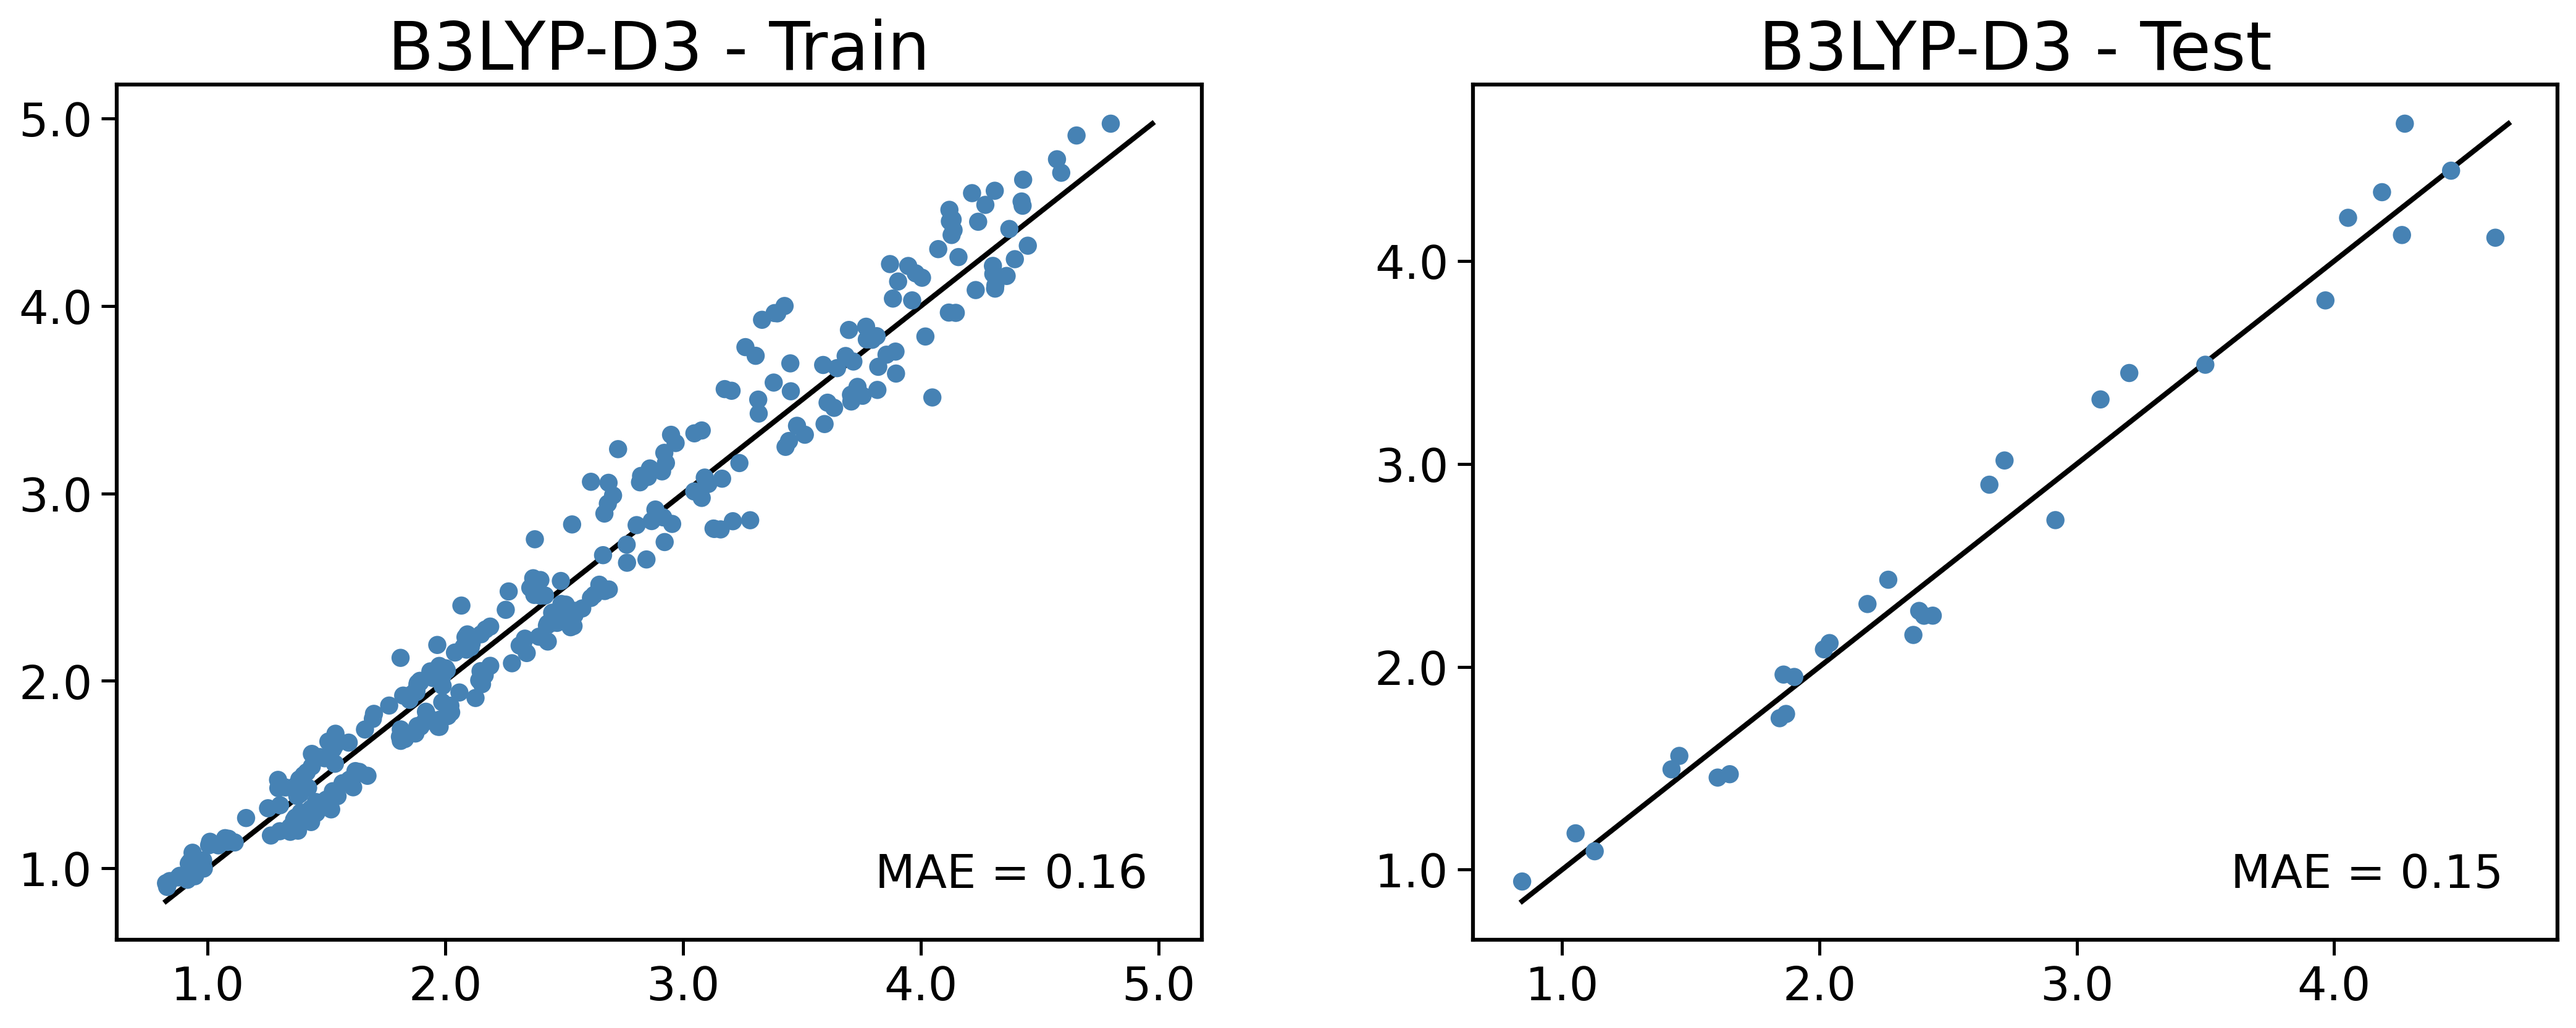
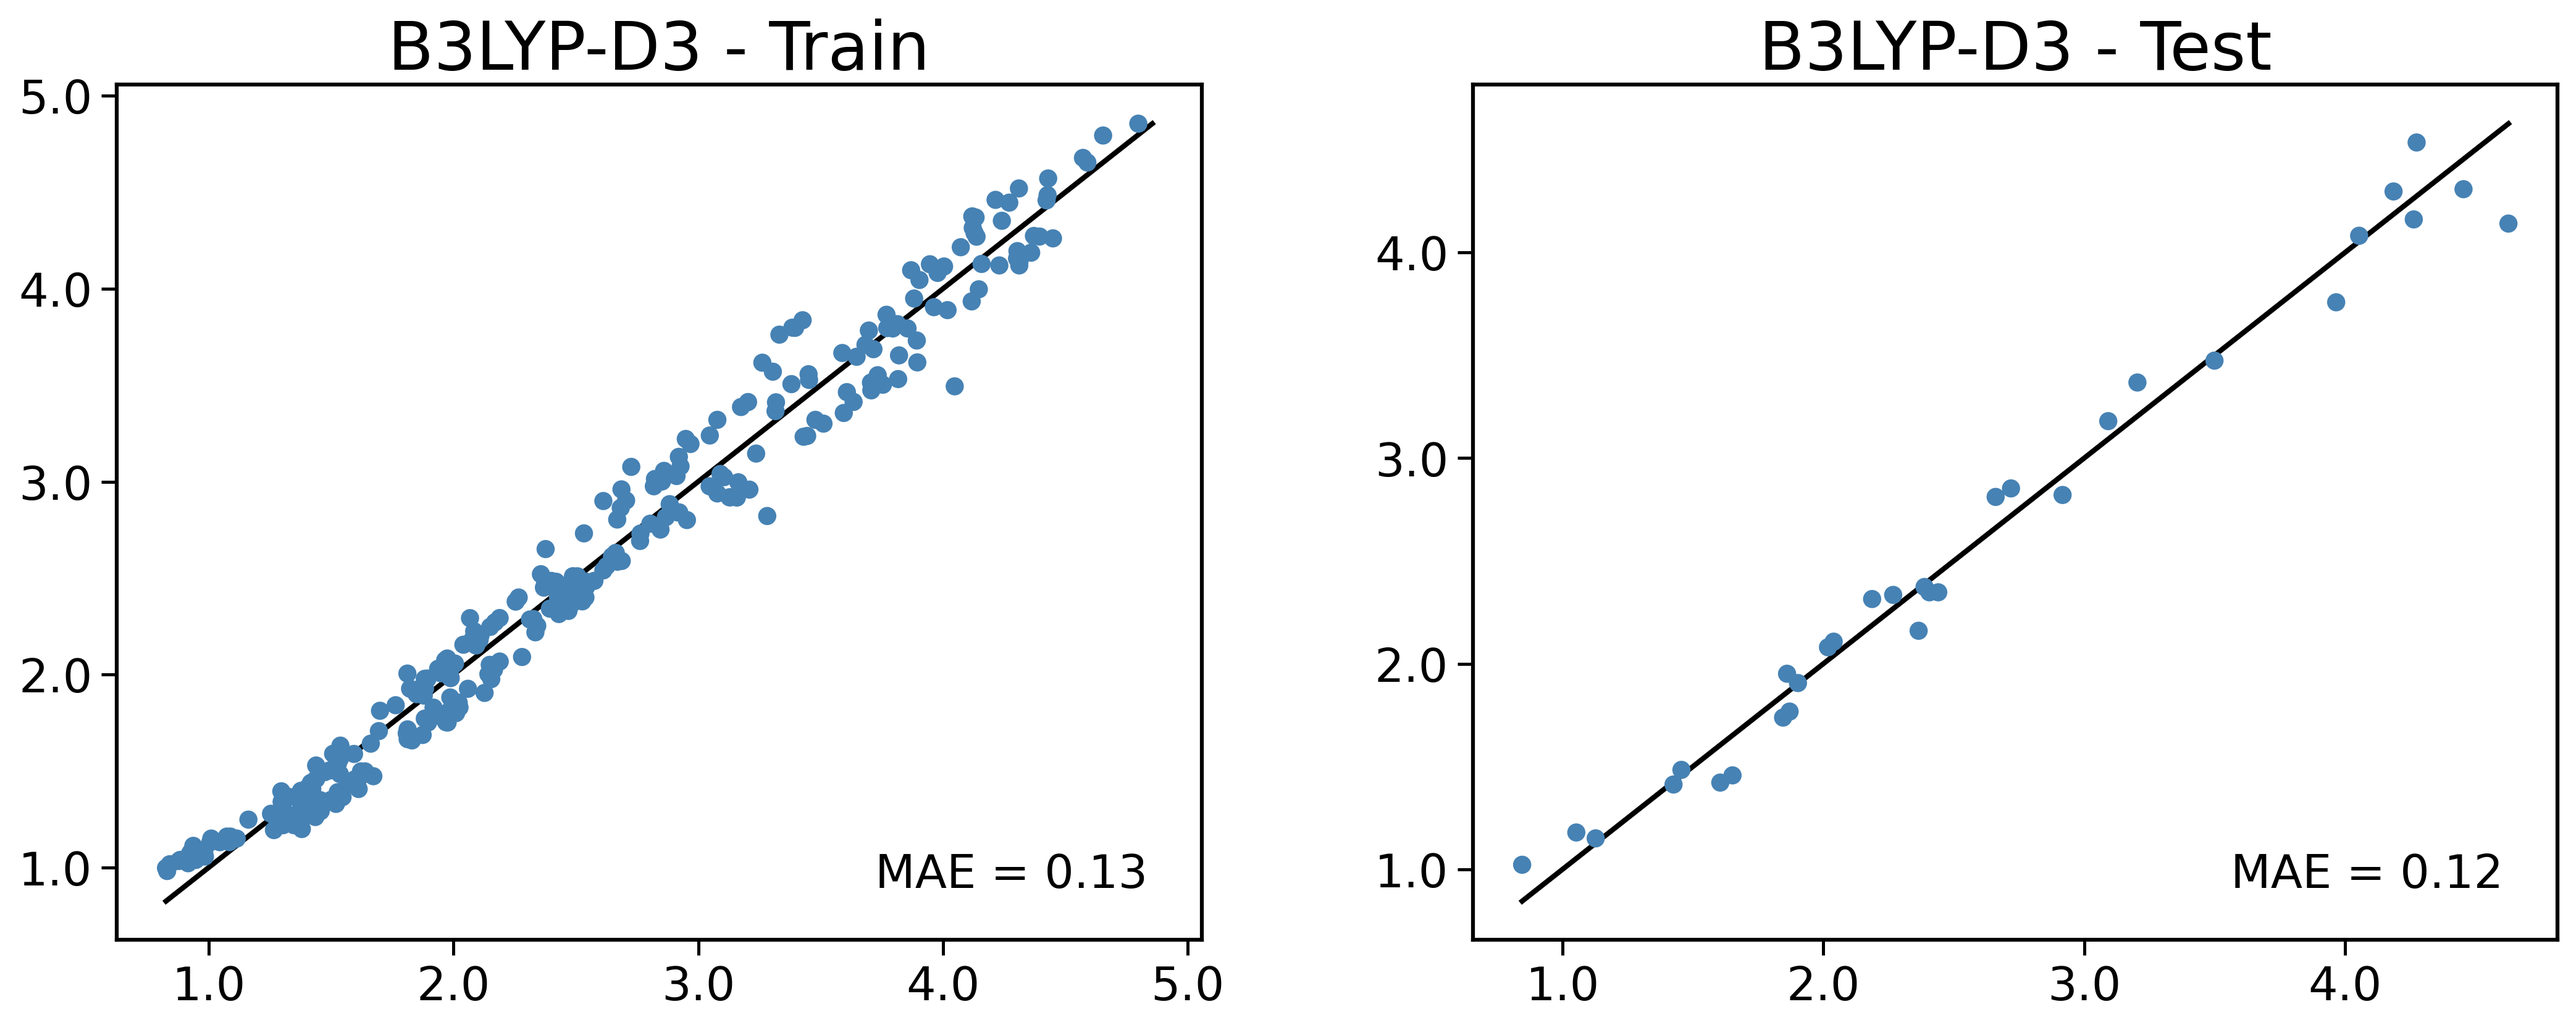
CDS suggestions pt1

diff --git a/time_select/moo.py b/time_select/moo.py
@@ -87,16 +87,17 @@ time_polynomials = {
     "PBE-D3": {
         "poly": lambda p, n_occ, n_virt, nbf_aux, np_total: (
             p[0]
-            + p[1] * (np_total * (n_occ + n_virt) ** p[3]) # RV: Form V
-            # + p[2] * ((n_occ + n_virt) ** p[3] * nbf_aux)
-            + p[2] * ((n_occ + n_virt) ** p[4] * nbf_aux ** 2) # DFH: AO-Met. Contraction
+            + p[1] * (np_total * (n_occ + n_virt) ** p[4]) # RV: Form V
+            + p[2] * ((n_occ + n_virt) ** p[5] * nbf_aux)
+            + p[3] * ((n_occ + n_virt) ** p[5] * nbf_aux ** 2) # DFH: AO-Met. Contraction
         ),
         "coeffs": {
-            "n_params": 5,
+            "n_params": 6,
             "guess": [
-                1.00005130e+00,
-                3.81966012e-08,
-                3.81966012e-08,
+                10.00005130e+00,
+                5.67912758e-09,
+                3.81966012e-09,
+                3.81966012e-09,
                 1.00005516,
                 1.00049297,
                 ],
@@ -104,14 +105,23 @@ time_polynomials = {
                 (1.0, 100),
                 (1.0e-15, 1.0e-6),
                 (1.0e-15, 1.0e-6),
+                (1.0e-15, 1.0e-6),
                 (0.5, 2.0),
                 (1.0, 2.0),
             ],
             "coarse_method": "Powell",
-            "run_tight": True,
+            "coarse_options": {
+                "maxiter": 400,
+                "maxfev": 6000, 
+                "xtol": 1e-10, 
+                "ftol": 1e-10, 
+                "disp": True
+                },
+            "run_tight": False,
             "tight_method": "L-BFGS-B",
             "tight_delta": [
                 10,
+                1.0e-7,
                 1.0e-7,
                 1.0e-7,
                 0.5,
@@ -122,33 +132,49 @@ time_polynomials = {
     "wB97X-D": {
         "poly": lambda p, n_occ, n_virt, nbf_aux, np_total: (
             p[0]
-            + p[1] * (np_total * (n_occ + n_virt) ** p[3])
+            + p[1] * (np_total * (n_occ + n_virt) ** p[5])
             # + p[2] * (nbf_aux * (n_occ + n_virt) ** 2)
-            # + p[1] * ((n_occ + n_virt) ** p[3] * nbf_aux**2)
-            # + p[4] * ((n_occ + n_virt) ** 2 * nbf_aux)
-            + p[2] * (n_occ * nbf_aux * (n_occ + n_virt) ** 2)
+            + p[2] * ((n_occ + n_virt) ** p[6] * nbf_aux**2)
+            + p[3] * ((n_occ + n_virt) ** p[6] * nbf_aux)
+            + p[4] * (n_occ * nbf_aux * (n_occ + n_virt) ** 2)
         ),
         "coeffs": {
-            "n_params": 4,
+            "n_params": 7,
             "guess": [
-                3.20909883e01,
-                3.81966012e-08,
-                3.81966012e-08,
+                150.20909883e01,
+                3.81966012e-10,
+                3.81966012e-09,
+                3.81966012e-09,
+                3.81966012e-09,
+                1.50049297,
                 1.50049297,
                 ],
             "bounds": [
                 (0.0, None),
                 (1.0e-15, 1.0e-6),
                 (1.0e-15, 1.0e-6),
+                (1.0e-15, 1.0e-6),
+                (1.0e-15, 1.0e-6),
                 (0.75, 2.0),
+                (1.0, 2.0),
                 ],
             "coarse_method": "Powell",
+            "coarse_options": {
+                "maxiter": 400,
+                "maxfev": 6000, 
+                "xtol": 1e-10, 
+                "ftol": 1e-10, 
+                "disp": True
+                },
             "run_tight": True,
             "tight_method": "L-BFGS-B",
             "tight_delta": [
                 10,
                 1.0e-7,
                 1.0e-7,
+                1.0e-7,
+                1.0e-7,
+                0.5,
                 0.5,
             ],
         },
@@ -156,22 +182,23 @@ time_polynomials = {
     "wB97X-V": {
         "poly": lambda p, n_occ, n_virt, nbf_aux, np_total: (
             p[0]
-            # + p[1] * (np_total * (n_occ + n_virt) ** 1.0)
-            # + p[2] * (nbf_aux * (n_occ + n_virt) ** 2)
-            + p[1] * ((n_occ + n_virt) ** p[4] * nbf_aux**2)
-            # + p[2] * ((n_occ + n_virt) ** p[5] * nbf_aux)
-            + p[2] * (n_occ * nbf_aux * (n_occ + n_virt) ** 2)
-            + p[3] * (np_total ** 2)
+            + p[1] * (np_total * (n_occ + n_virt) ** p[6])
+            + p[2] * ((n_occ + n_virt) ** p[7] * nbf_aux**2)
+            + p[3] * ((n_occ + n_virt) ** p[7] * nbf_aux)
+            + p[4] * (n_occ * nbf_aux * (n_occ + n_virt) ** 2)
+            + p[5] * (np_total ** 2)
         ),
         "coeffs": {
-            "n_params": 5,
+            "n_params": 8,
             "guess": [
                 125.20909883e01,
+                3.81966012e-08,
                 3.81966012e-05,
-                # 3.81966012e-08,
+                3.81966012e-08,
                 7.67912758e-10,
                 8.97912758e-11,
                 1.50049297,
+                1.50000343,
                 ],
             "bounds": [
                 (0.0, None),
@@ -179,6 +206,9 @@ time_polynomials = {
                 (1.0e-15, 1.0e-6),
                 (1.0e-15, 1.0e-6),
                 (1.0e-15, 1.0e-6),
+                (1.0e-15, 1.0e-6),
+                (1.0e-15, 1.0e-6),
+                (0.75, 2.0),
                 (1.0, 2.0),
                 ],
             "coarse_method": "Powell",
@@ -193,12 +223,13 @@ time_polynomials = {
             "tight_method": "L-BFGS-B",
             "tight_delta": [
                 10,
-                # 1.0e-7,
+                1.0e-7,
+                1.0e-7,
                 1.0e-6,
                 1.0e-11,
                 1.0e-12,
+                0.5,
                 0.5, # fine, doesnt really change that much anyways
-
             ],
         },
     },
@@ -243,37 +274,51 @@ time_polynomials = {
         "poly": lambda p, n_occ, n_virt, nbf_aux, np_total: (
             # p[0]
             # + p[1] * (np_total * (n_occ + n_virt) ** 1.0)
-            # + p[2] * ((n_occ + n_virt) ** 2 * nbf_aux**2)
-            # + p[3] * ((n_occ + n_virt) ** 2 * nbf_aux)
+
             # + p[4] * (n_occ * nbf_aux * (n_occ + n_virt) ** 2) ** 0.75
             p[0]
-            + p[1] * (np_total * (n_occ + n_virt) ** p[3])
-            # + p[2] * (nbf_aux * (n_occ + n_virt) ** 2)
-            # + p[1] * ((n_occ + n_virt) ** p[3] * nbf_aux**2)
-            # + p[4] * ((n_occ + n_virt) ** 2 * nbf_aux)
-            + p[2] * (n_occ * nbf_aux * (n_occ + n_virt) ** 2)
+            + p[1] * (np_total * (n_occ + n_virt) ** p[5])
+            + p[2] * ((n_occ + n_virt) ** p[6] * nbf_aux**2)
+            + p[3] * ((n_occ + n_virt) ** p[6] * nbf_aux)
+            + p[4] * (n_occ * nbf_aux * (n_occ + n_virt) ** 2)
         ),
         "coeffs": {
-            "n_params": 4,
+            "n_params": 7,
             "guess": [
                 3.20909883e01,
                 3.81966012e-09,
+                3.81966012e-09,
+                3.81966012e-09,
                 1.21966012e-10,
                 1.50049297,
+                1.500093,
                 ],
             "bounds": [
                 (0.0, None),
                 (1.0e-15, 1.0e-6),
                 (1.0e-15, 1.0e-6),
+                (1.0e-15, 1.0e-6),
+                (1.0e-15, 1.0e-6),
                 (0.75, 2.0),
+                (1.0, 2.0),
                 ],
             "coarse_method": "Powell",
+            "coarse_options": {
+                "maxiter": 400, 
+                "maxfev": 6000, 
+                "xtol": 1e-10, 
+                "ftol": 1e-10, 
+                "disp": True
+                },
             "run_tight": True,
             "tight_method": "L-BFGS-B",
             "tight_delta": [
                 10,
                 1.0e-10,
+                1.0e-7,
+                1.0e-7,
                 1.0e-11,
+                0.5,
                 0.5,
             ],
         },
@@ -314,30 +359,48 @@ time_polynomials = {
     "M05-2X": {
         "poly": lambda p, n_occ, n_virt, nbf_aux, np_total: (
             p[0]
-            + p[1] * (np_total * (n_occ + n_virt) ** p[3])
-            + p[2] * (n_occ * nbf_aux * (n_occ + n_virt) ** 2)
+            + p[2] * ((n_occ + n_virt) ** p[5] * nbf_aux**2)
+            + p[3] * ((n_occ + n_virt) ** p[5] * nbf_aux)
+            + p[3] * (np_total * (n_occ + n_virt) ** p[6])
+            + p[4] * (n_occ * nbf_aux * (n_occ + n_virt) ** 2)
         ),
         "coeffs": {
-            "n_params": 4,
+            "n_params": 7,
             "guess": [
                 30,
+                3.81966012e-09,
+                3.81966012e-09,
                 1.01980502e-08,
                 0.950187e-10,
+                1.50049297,
                 1.50049297,
                 ],
             "bounds": [
                 (0.0, None),
                 (1.0e-15, 1.0e-6),
                 (1.0e-15, 1.0e-6),
+                (1.0e-15, 1.0e-6),
+                (1.0e-15, 1.0e-6),
+                (1.0, 2.0),
                 (0.75, 2.0),
                 ],
             "coarse_method": "Powell",
+            "coarse_options": {
+                "maxiter": 400, 
+                "maxfev": 6000, 
+                "xtol": 1e-10, 
+                "ftol": 1e-10, 
+                "disp": True
+                },
             "run_tight": True,
             "tight_method": "L-BFGS-B",
             "tight_delta": [
                 10,
+                1.0e-7,
+                1.0e-7,
                 1.0e-9,
                 1.0e-11,
+                0.5,
                 0.5,
             ],
         },
@@ -345,23 +408,23 @@ time_polynomials = {
     "FNO-CCSD": {
         "poly": lambda p, n_occ, n_virt, nbf_aux: (
             p[0] 
-            # + p[3] * ((n_occ + n_virt) ** 5) 
+            + p[3] * ((n_occ + n_virt) ** 5) 
             + p[1] * (n_occ * (n_occ + n_virt) ** 2 * nbf_aux)
             + p[2] * (n_occ**2 * n_virt**4)
         ),
         "coeffs": {
-            "n_params": 3,
+            "n_params": 4,
             "guess": [
                 1,
                 5.67912758e-7, 
                 0.763534e-11,
-                # 1.23534e-12,                
+                1.23534e-12,                
                 ],
             "bounds": [
                 (0.0, 50),
                 (1.0e-15, 1.0e-6),
                 (1.0e-15, 1.0e-6),
-                # (1.0e-15, 1.0e-6),
+                (1.0e-15, 1.0e-6),
                 ],
             "coarse_method": "Powell",
             "coarse_options": {
@@ -377,28 +440,30 @@ time_polynomials = {
                 10,
                 1.0e-7,
                 1.0e-12,
-                # 1.0e-13,
+                1.0e-12,
                 ],
         },
     },
     "FNO-CCSD(T)": {
         "poly": lambda p, n_occ, n_virt, nbf_aux: (
             p[0]
-            # + p[1] * ((n_occ + n_virt) ** 5)
+            + p[4] * ((n_occ + n_virt) ** 5)
             + p[1] * (n_occ * (n_occ + n_virt) ** 2 * nbf_aux)
             + p[2] * (n_occ**2 * n_virt**4)
             + p[3] * (n_occ**3 * n_virt**4)
         ),
         "coeffs": {
-            "n_params": 4,
+            "n_params": 5,
             "guess": [
                 3.20909883e01, 
                 5.67912758e-7, 
                 1.67912758e-12, 
                 2.67912758e-12,
+                1.23534e-12,
                 ],
             "bounds": [
                 (0, None),
+                (1.0e-15, 1.0e-6),
                 (1.0e-15, 1.0e-6),
                 (1.0e-15, 1.0e-6),
                 (1.0e-15, 1.0e-6),
@@ -411,7 +476,8 @@ time_polynomials = {
                 1.0e-7,
                 1.0e-13,
                 1.0e-13,
-            ],
+                1.0e-12,
+                ],
         },
     },
 }

diff --git a/time_select/plots_latex/time_fit_template.tex b/time_select/plots_latex/time_fit_template.tex
@@ -7,22 +7,22 @@
 \endhead
 HF & 228 & 26 & 0.11 & 0.10 & \begin{tabular}{l}\(c_{0}=1.000e+00\) \\ \(c_{1}=3.430e-09\) \\ \(c_{2}=3.430e-09\) \\ \(c_{3}=5.643e-11\) \\ \(c_{4}=1.045e+00\)\end{tabular} & $\begin{array}{l}c_{0} \\ + c_{1}  \cdot  (N_{bf} ^{c_{4}}  \cdot  N_{aux} ^{2}) \\ + c_{2}  \cdot  (N_{bf} ^{c_{4}}  \cdot  N_{aux}) \\ + c_{3}  \cdot  (N_{occ}  \cdot  N_{aux}  \cdot  N_{bf} ^{2})\end{array}$ \\ 
 \hline
-PBE-D3 & 273 & 31 & 0.16 & 0.18 & \begin{tabular}{l}\(c_{0}=1.004e+00\) \\ \(c_{1}=9.211e-08\) \\ \(c_{2}=2.390e-09\) \\ \(c_{3}=9.387e-01\) \\ \(c_{4}=1.135e+00\)\end{tabular} & $\begin{array}{l}c_{0} \\ + c_{1}  \cdot  (N_{g}  \cdot  N_{bf} ^{c_{3}}) \\ + c_{2}  \cdot  (N_{bf} ^{c_{4}}  \cdot  N_{aux} ^{2})\end{array}$ \\ 
+PBE-D3 & 273 & 31 & 0.16 & 0.18 & \begin{tabular}{l}\(c_{0}=1.000e+00\) \\ \(c_{1}=7.451e-08\) \\ \(c_{2}=9.999e-07\) \\ \(c_{3}=7.511e-09\) \\ \(c_{4}=9.361e-01\) \\ \(c_{5}=1.000e+00\)\end{tabular} & $\begin{array}{l}c_{0} \\ + c_{1}  \cdot  (N_{g}  \cdot  N_{bf} ^{c_{4}}) \\ + c_{2}  \cdot  (N_{bf} ^{c_{5}}  \cdot  N_{aux}) \\ + c_{3}  \cdot  (N_{bf} ^{c_{5}}  \cdot  N_{aux} ^{2})\end{array}$ \\ 
 \hline
-wB97X-D & 243 & 28 & 0.17 & 0.15 & \begin{tabular}{l}\(c_{0}=4.733e-02\) \\ \(c_{1}=3.155e-08\) \\ \(c_{2}=2.057e-10\) \\ \(c_{3}=1.298e+00\)\end{tabular} & $\begin{array}{l}c_{0} \\ + c_{1}  \cdot  (N_{g}  \cdot  N_{bf} ^{c_{3}}) \\ + c_{2}  \cdot  (N_{occ}  \cdot  N_{aux}  \cdot  N_{bf} ^{2})\end{array}$ \\ 
+wB97X-D & 243 & 28 & 0.12 & 0.10 & \begin{tabular}{l}\(c_{0}=1.047e+01\) \\ \(c_{1}=3.164e-09\) \\ \(c_{2}=6.611e-11\) \\ \(c_{3}=1.376e-08\) \\ \(c_{4}=6.002e-11\) \\ \(c_{5}=1.392e+00\) \\ \(c_{6}=1.775e+00\)\end{tabular} & $\begin{array}{l}c_{0} \\ + c_{1}  \cdot  (N_{g}  \cdot  N_{bf} ^{c_{5}}) \\ + c_{2}  \cdot  (N_{bf} ^{c_{6}}  \cdot  N_{aux}^{2}) \\ + c_{3}  \cdot  (N_{bf} ^{c_{6}}  \cdot  N_{aux}) \\ + c_{4}  \cdot  (N_{occ}  \cdot  N_{aux}  \cdot  N_{bf} ^{2})\end{array}$ \\ 
 \hline
-wB97X-V & 240 & 27 & 0.07 & 0.06 & \begin{tabular}{l}\(c_{0}=7.463e-12\) \\ \(c_{1}=1.859e-09\) \\ \(c_{2}=6.195e-11\) \\ \(c_{3}=8.888e-10\) \\ \(c_{4}=1.377e+00\)\end{tabular} & $\begin{array}{l}c_{0} \\ + c_{1}  \cdot  (N_{bf} ^{c_{4}}  \cdot  N_{aux}^{2}) \\ + c_{2}  \cdot  (N_{occ}  \cdot  N_{aux}  \cdot  N_{bf} ^{2}) \\ + c_{3}  \cdot  (N_{g} ^{2})\end{array}$ \\ 
+wB97X-V & 240 & 27 & 0.07 & 0.06 & \begin{tabular}{l}\(c_{0}=4.086e+00\) \\ \(c_{1}=1.623e-07\) \\ \(c_{2}=1.240e-09\) \\ \(c_{3}=1.000e-15\) \\ \(c_{4}=6.611e-11\) \\ \(c_{5}=8.184e-10\) \\ \(c_{6}=7.614e-01\) \\ \(c_{7}=1.431e+00\)\end{tabular} & $\begin{array}{l}c_{0} \\ + c_{1}  \cdot  (N_{g}  \cdot  N_{bf} ^{c_{6}}) \\ + c_{2}  \cdot  (N_{bf} ^{c_{7}}  \cdot  N_{aux}^{2}) \\ + c_{3}  \cdot  (N_{bf} ^{c_{7}}  \cdot  N_{aux}) \\ + c_{4}  \cdot  (N_{occ}  \cdot  N_{aux}  \cdot  N_{bf} ^{2}) \\ + c_{5}  \cdot  (N_{g} ^{2})\end{array}$ \\ 
 \hline
 MP2 & 261 & 30 & 0.09 & 0.11 & \begin{tabular}{l}\(c_{0}=6.137e+00\) \\ \(c_{1}=1.779e-10\) \\ \(c_{2}=1.979e-08\) \\ \(c_{3}=1.900e+00\)\end{tabular} & $\begin{array}{l}c_{0} \\ + c_{1}  \cdot  (N_{occ}  \cdot  N_{bf} ^{2}  \cdot  N_{aux}) \\ + c_{2}  \cdot  (N_{bf} ^{c_{3}}  \cdot  N_{aux})\end{array}$ \\ 
 \hline
-B3LYP-D3 & 284 & 32 & 0.16 & 0.15 & \begin{tabular}{l}\(c_{0}=1.867e+00\) \\ \(c_{1}=3.920e-09\) \\ \(c_{2}=1.120e-10\) \\ \(c_{3}=1.500e+00\)\end{tabular} & $\begin{array}{l}c_{0} \\ + c_{1}  \cdot  (N_{g}  \cdot  N_{bf} ^{c_{3}}) \\ + c_{2}  \cdot  (N_{occ}  \cdot  N_{aux}  \cdot  N_{bf} ^{2})\end{array}$ \\ 
+B3LYP-D3 & 284 & 32 & 0.13 & 0.12 & \begin{tabular}{l}\(c_{0}=6.329e+00\) \\ \(c_{1}=6.819e-10\) \\ \(c_{2}=1.745e-10\) \\ \(c_{3}=1.000e-06\) \\ \(c_{4}=6.486e-11\) \\ \(c_{5}=7.500e-01\) \\ \(c_{6}=1.414e+00\)\end{tabular} & $\begin{array}{l}c_{0} \\ + c_{1}  \cdot  (N_{g}  \cdot  N_{bf} ^{c_{5}}) \\ + c_{2}  \cdot  (N_{bf} ^{c_{6}}  \cdot  N_{aux}^{2}) \\ + c_{3}  \cdot  (N_{bf} ^{c_{6}}  \cdot  N_{aux}) \\ + c_{4}  \cdot  (N_{occ}  \cdot  N_{aux}  \cdot  N_{bf} ^{2})\end{array}$ \\ 
 \hline
 B2PLYP-D3 & 226 & 26 & 0.11 & 0.10 & \begin{tabular}{l}\(c_{0}=0.000e+00\) \\ \(c_{1}=9.198e-09\) \\ \(c_{2}=1.805e-10\) \\ \(c_{3}=1.401e+00\)\end{tabular} & $\begin{array}{l}c_{0} \\ + c_{1}  \cdot  (N_{g}  \cdot  N_{bf} ^{c_{3}}) \\ + c_{2}  \cdot  (N_{occ}  \cdot  N_{aux}  \cdot  N_{bf} ^{2})\end{array}$ \\ 
 \hline
-M05-2X & 256 & 29 & 0.16 & 0.14 & \begin{tabular}{l}\(c_{0}=0.000e+00\) \\ \(c_{1}=9.198e-09\) \\ \(c_{2}=1.050e-10\) \\ \(c_{3}=1.452e+00\)\end{tabular} & $\begin{array}{l}c_{0} \\ + c_{1}  \cdot  (N_{g}  \cdot  N_{bf} ^{c_{3}}) \\ + c_{2}  \cdot  (N_{occ}  \cdot  N_{aux}  \cdot  N_{bf} ^{2})\end{array}$ \\ 
+M05-2X & 256 & 29 & 0.14 & 0.11 & \begin{tabular}{l}\(c_{0}=4.418e-01\) \\ \(c_{1}=9.999e-07\) \\ \(c_{2}=1.930e-09\) \\ \(c_{3}=8.734e-08\) \\ \(c_{4}=6.611e-11\) \\ \(c_{5}=1.227e+00\) \\ \(c_{6}=1.004e+00\)\end{tabular} & $\begin{array}{l}c_{0} \\ + c_{2}  \cdot  (N_{bf} ^{c_{5}}  \cdot  N_{aux}^{2}) \\ + c_{3}  \cdot  (N_{bf} ^{c_{5}}  \cdot  N_{aux}) \\ + c_{3}  \cdot  (N_{g}  \cdot  N_{bf} ^{c_{6}}) \\ + c_{4}  \cdot  (N_{occ}  \cdot  N_{aux}  \cdot  N_{bf} ^{2})\end{array}$ \\ 
 \hline
-FNO-CCSD & 227 & 26 & 0.08 & 0.06 & \begin{tabular}{l}\(c_{0}=5.968e-07\) \\ \(c_{1}=1.805e-07\) \\ \(c_{2}=6.635e-12\)\end{tabular} & $\begin{array}{l}c_{0} \\ + c_{1}  \cdot  (N_{occ}  \cdot  N_{bf} ^{2}  \cdot  N_{aux}) \\ + c_{2}  \cdot  (N_{occ}^{2}  \cdot  N_{virt}^{4})\end{array}$ \\ 
+FNO-CCSD & 227 & 26 & 0.08 & 0.06 & \begin{tabular}{l}\(c_{0}=2.840e-06\) \\ \(c_{1}=1.801e-07\) \\ \(c_{2}=6.635e-12\) \\ \(c_{3}=2.353e-13\)\end{tabular} & $\begin{array}{l}c_{0} \\ + c_{3}  \cdot  (N_{bf} ^{5}) \\ + c_{1}  \cdot  (N_{occ}  \cdot  N_{bf} ^{2}  \cdot  N_{aux}) \\ + c_{2}  \cdot  (N_{occ}^{2}  \cdot  N_{virt}^{4})\end{array}$ \\ 
 \hline
-FNO-CCSD(T) & 227 & 26 & 0.09 & 0.08 & \begin{tabular}{l}\(c_{0}=0.000e+00\) \\ \(c_{1}=2.820e-07\) \\ \(c_{2}=1.579e-12\) \\ \(c_{3}=2.579e-12\)\end{tabular} & $\begin{array}{l}c_{0} \\ + c_{1}  \cdot  (N_{occ}  \cdot  N_{bf} ^{2}  \cdot  N_{aux}) \\ + c_{2}  \cdot  (N_{occ}^{2}  \cdot  N_{virt}^{4}) \\ + c_{3}  \cdot  (N_{occ}^{3}  \cdot  N_{virt}^{4})\end{array}$ \\ 
+FNO-CCSD(T) & 227 & 26 & 0.09 & 0.08 & \begin{tabular}{l}\(c_{0}=0.000e+00\) \\ \(c_{1}=2.820e-07\) \\ \(c_{2}=1.579e-12\) \\ \(c_{3}=2.579e-12\) \\ \(c_{4}=2.353e-13\)\end{tabular} & $\begin{array}{l}c_{0} \\ + c_{4}  \cdot  (N_{bf} ^{5}) \\ + c_{1}  \cdot  (N_{occ}  \cdot  N_{bf} ^{2}  \cdot  N_{aux}) \\ + c_{2}  \cdot  (N_{occ}^{2}  \cdot  N_{virt}^{4}) \\ + c_{3}  \cdot  (N_{occ}^{3}  \cdot  N_{virt}^{4})\end{array}$ \\ 
 \hline
 \end{longtable}
